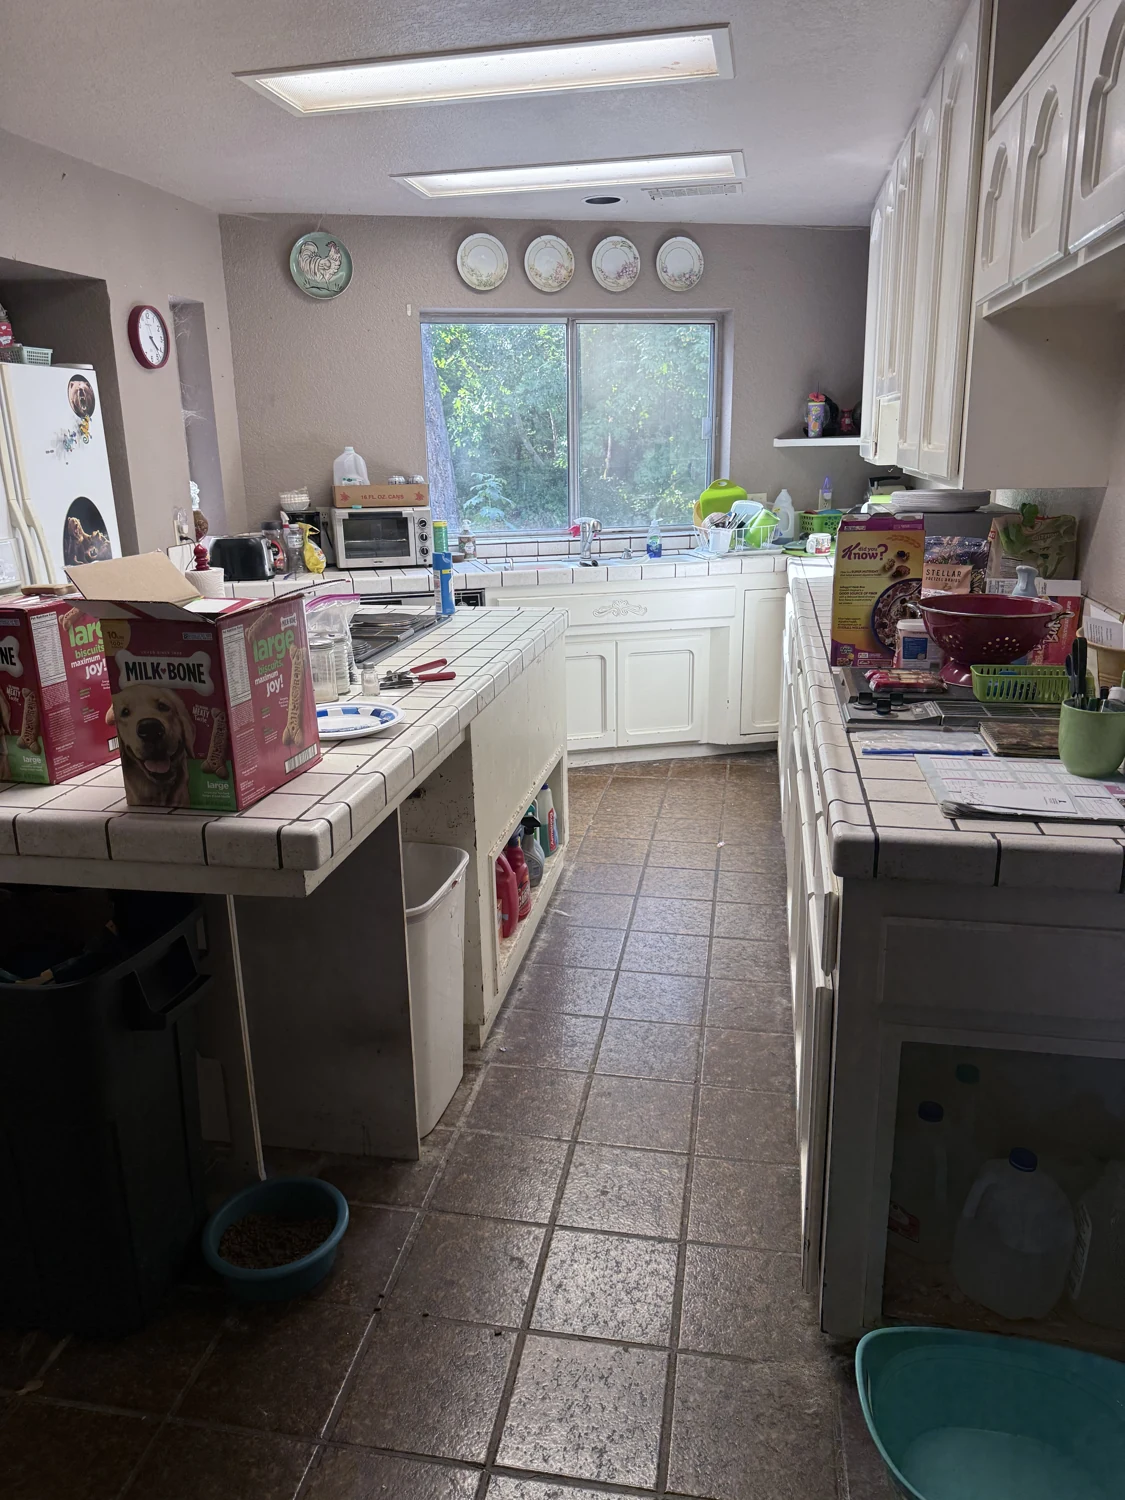
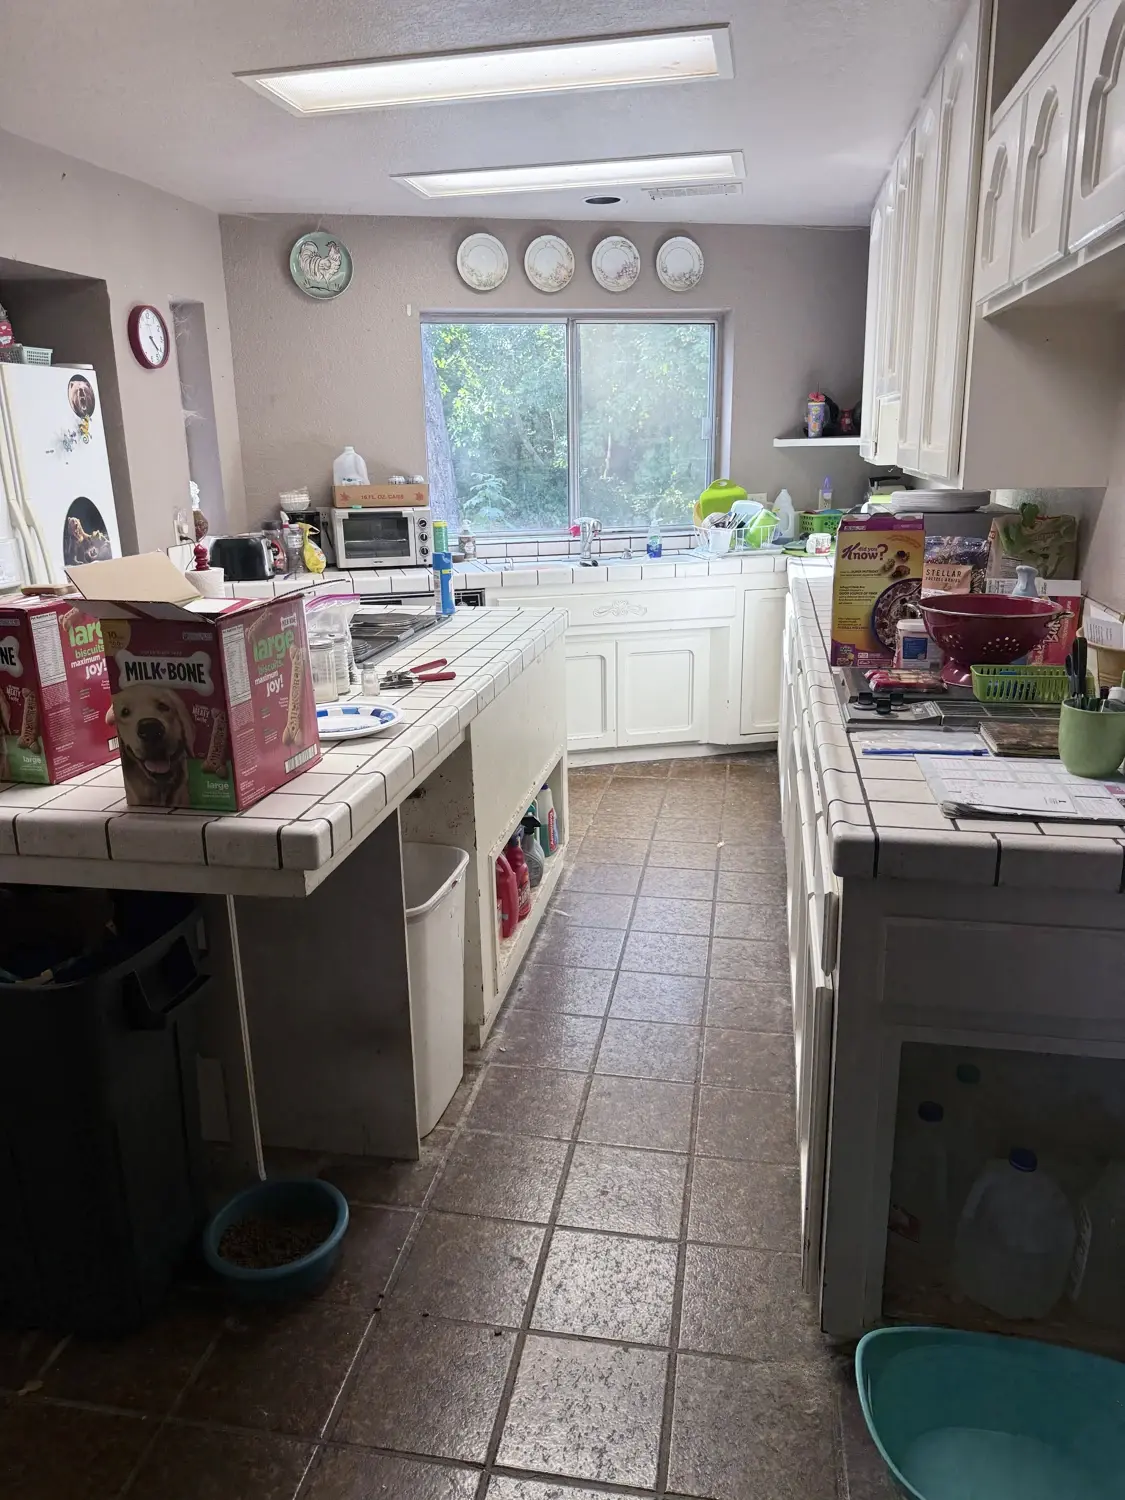
Lift the exposure of the six other dark before photographs
Barn aisle, bathroom, kitchen, living room, room by the deck and workshop,
each by the gamma that brings its mean onto a common mid-tone, with mild
contrast. The exterior befores were already bright and are unchanged.
Framing, content and dimensions untouched; recorded per photograph in the
asset manifest.

diff --git a/docs/fish-hatchery/HANDOFF.md b/docs/fish-hatchery/HANDOFF.md
@@ -10,7 +10,7 @@ The owner asked for an elegant property-magazine showcase for family and friends
 - Focus on the property. No family narrative, unrelated properties, financial documents, or personal photographs.
 - The owner supplied the before/during photographs and requested the finished photographs from the property's Zillow listing. The owner has no photographer originals.
 - Dates below before/during photos come from image metadata. After photos do not have an asserted capture date.
-- One tonal adjustment has been made at the owner's request: the bedroom before photograph (`bedroom-before.webp`) was very under-exposed and had its exposure lifted on September 25, 2026. Nothing was removed, added or reframed; the owner's original is untouched. Recorded in `asset-manifest.json`.
+- Tonal adjustments have been made at the owner's request: seven under-exposed before photographs (bedroom, barn aisle, bathroom, kitchen, living room, room by the deck, workshop) had their exposure lifted on September 25, 2026, each toward a common mid-tone. Nothing was removed, added or reframed; the owner's originals are untouched. Each is recorded in `asset-manifest.json` with the gamma used. The exterior before photographs were already bright enough and are unchanged.
 - Eleven pairs were visually matched using architectural details; camera positions differ. Preserve complete frames in the comparisons and keep that distinction visible. Do not fabricate aligned views, enhance away damage, or generate replacement property photography.
 - The owner explicitly requested a homepage link. This adds a seventh destination; small-phone spacing was tightened to accommodate it.
 
